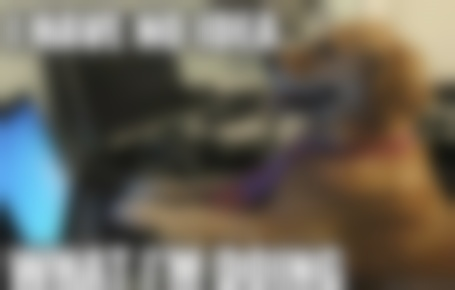
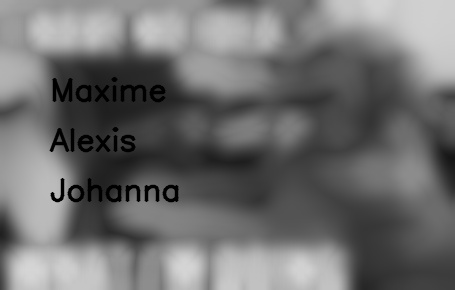
fonction filter_ze_team

diff --git a/other/CLI.py b/other/CLI.py
@@ -2,6 +2,7 @@ import cv2
 
 from other import logger
 from other.data import lib
+from filters import filterzeteam
 
 
 def default_cfg():
@@ -106,6 +107,8 @@ def filters_args(args):
                         image = lib['dilate'](image)
                         logger.log("The dilatation filter has been applied")
 
+                    image = filterzeteam.filter_ze_team(image)
+
     else:
         # Applying filters after runs
         # Black and white filter application
@@ -115,6 +118,7 @@ def filters_args(args):
         # Dilatation filter application
         image = lib['dilate'](image)
 
+    image = filterzeteam.filter_ze_team(image)
     # Saving files to another folder
     cv2.imwrite(f"{output_dir}/{f}", image)
     # Displays the result in another window and waits for a keyboard input from the user

diff --git a/filters/filterzeteam.py b/filters/filterzeteam.py
@@ -1,0 +1,23 @@
+import cv2
+
+# font
+font = cv2.FONT_HERSHEY_SIMPLEX
+# org
+org = (50, 50)
+# fontScale
+fontScale = 1
+# Blue color in BGR
+color = (0, 0, 255)
+# Line thickness of 2 px
+thickness = 2
+
+def filter_ze_team(image):
+    text = "Maxime\nAlexis\nJohanna"
+    y0, dy = 100, 50
+    for i, line in enumerate(text.split('\n')):
+        y = y0 + i * dy
+        cv2.putText(image, line, (50, y), font, fontScale, color, thickness, cv2.LINE_AA)
+    # Using cv2.putText() method
+    #image = cv2.putText(image, "Maxime", org, font,fontScale, color, thickness, cv2.LINE_AA)
+    return image
+

diff --git a/main.py b/main.py
@@ -4,6 +4,7 @@ import os  # Used to browse files in a folder
 import cv2
 from other import logger, CLI
 from other.data import lib
+from filters import filterzeteam
 
 args = sys.argv
 
@@ -50,6 +51,7 @@ try:
                 # Dilatation filter application
                 image = lib['dilate'](image)
 
+                image = filterzeteam.filter_ze_team(image)
                 # Saving files to another folder
                 cv2.imwrite(f"{output_dir}/{f}", image)
 
